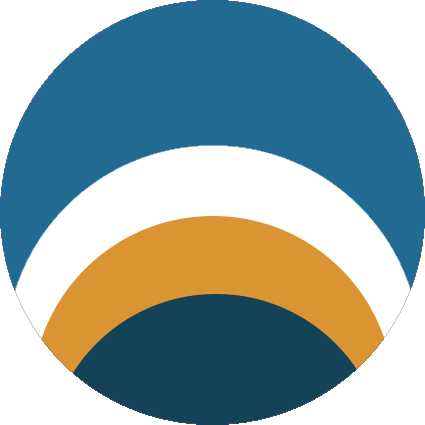
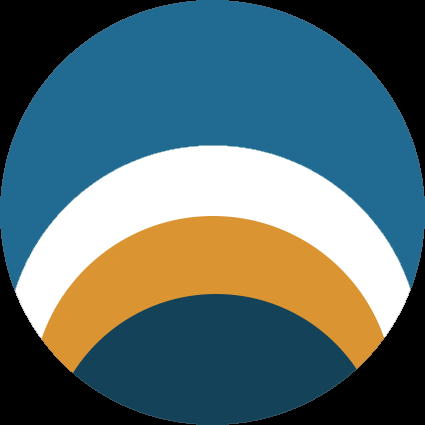
Попытка 8 отобразить Знак Куратора Шамир

diff --git a/vault/Инструкция №2/Текст.md b/vault/Инструкция №2/Текст.md
@@ -8,4 +8,4 @@
 
 ![Знак Куратора группы Шамир - Гордопольцева Анна Дмитриева](./Знак_Куратора_группы_Шамир_Гордопольцева_Анна_Дмитриевна.png)
 ## Стегано-печать Куратора УИТ:
-![Знак Куратора УИТ - Олег Александрович Бедри](../Знак_Куратора_УИТ_Олег_Александрович_Бедрин.png)
+![Знак Куратора УИТ - Олег Александрович Бедрин](./Стегано_печать_Куратор_УИТ_Инструкция_2.png)

diff --git a/vault/Инструкция №3/Текст.md b/vault/Инструкция №3/Текст.md
@@ -8,5 +8,5 @@
 
 ![Знак Куратора группы Ривест - Кирилл Величко](./Знак_Куратора_группы_Ривест_Кирилл_Величко.png)
 ## Стегано-печать Куратора УИТ:
-![Знак Куратора УИТ - Олег Александрович Бедри](../Знак_Куратора_УИТ_Олег_Александрович_Бедрин.png)
+![Знак Куратора УИТ - Олег Александрович Бедрин](./Стегано_печать_Куратор_УИТ_Инструкция_3.png)
 
